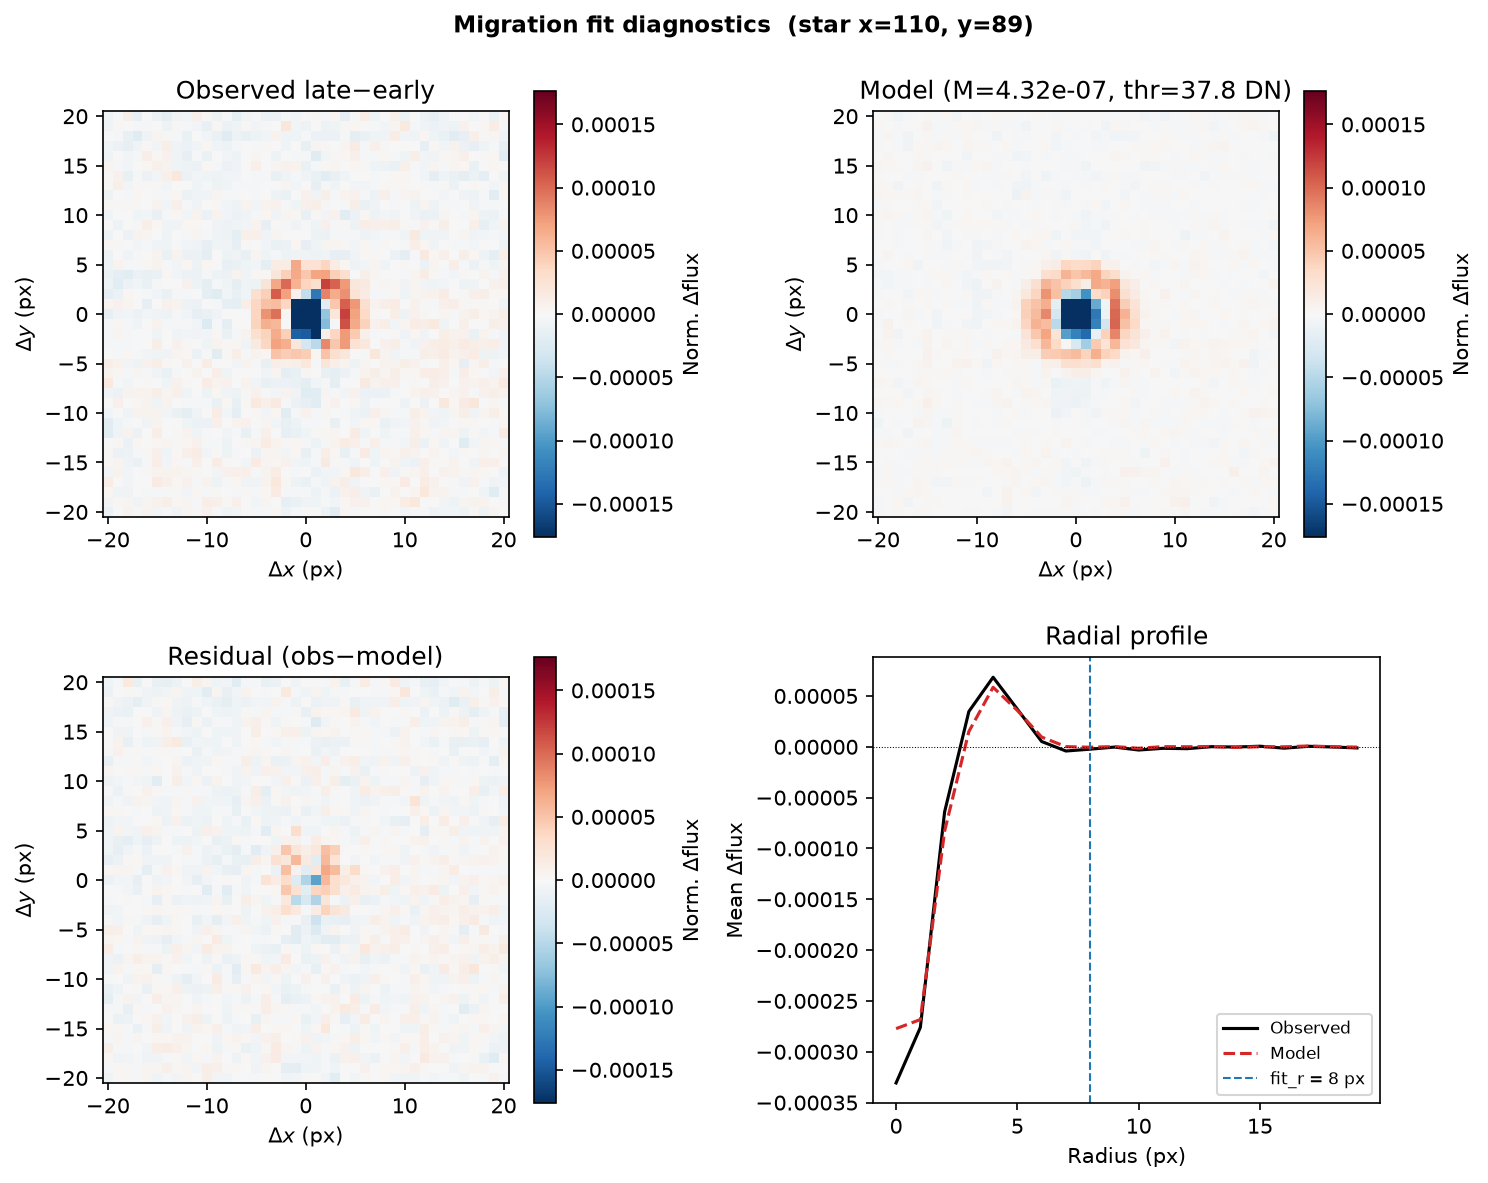
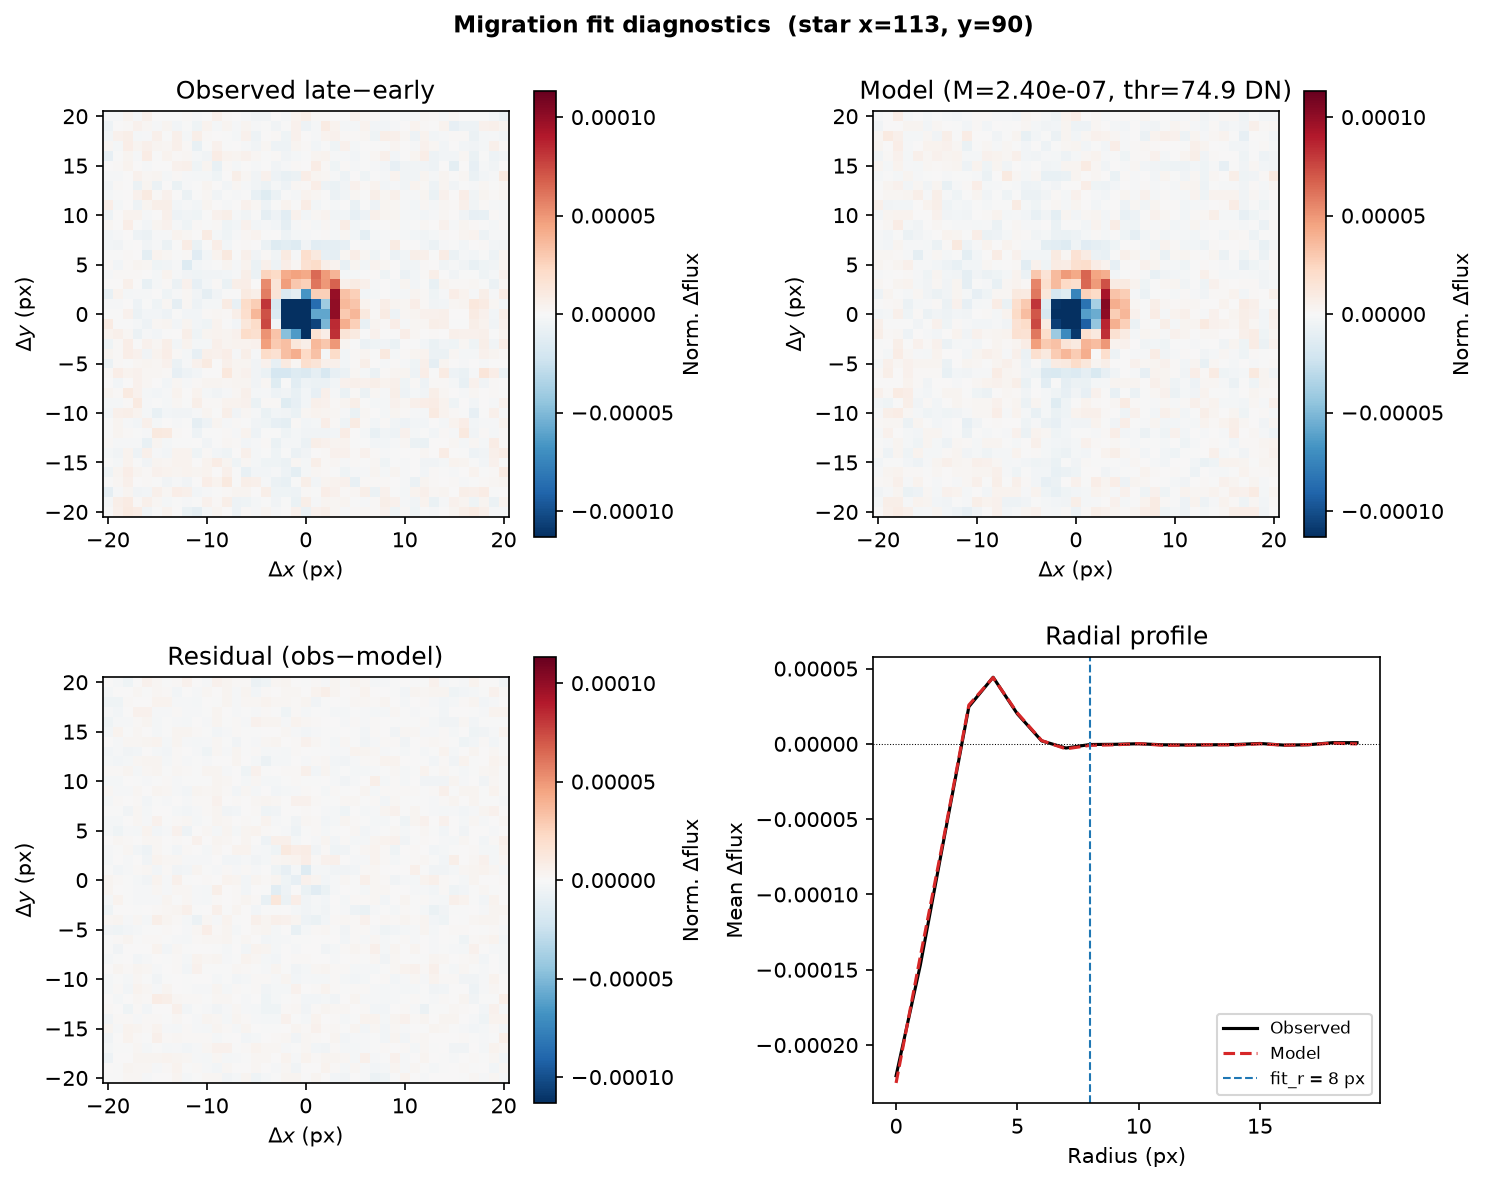
Update README diagnostic figures to EV Lac run

diff --git a/README.md b/README.md
@@ -109,7 +109,7 @@ defaults. On raw (`uncal`) data, jointly fitting the linearity coefficient
 
 ## Example diagnostics
 
-Migration model fit on Wolf 359 (MIRI SUB256, ramp.fits): observed
+Migration model fit on EV Lac (MIRI SUB256, ramp.fits): observed
 late−early PSF difference, best-fit migration model, residual, and
 radial profile.
 
